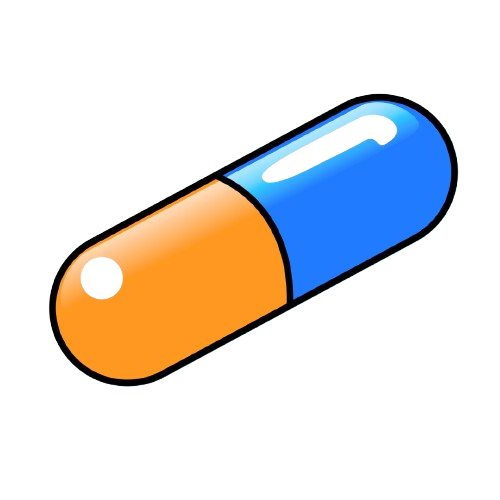
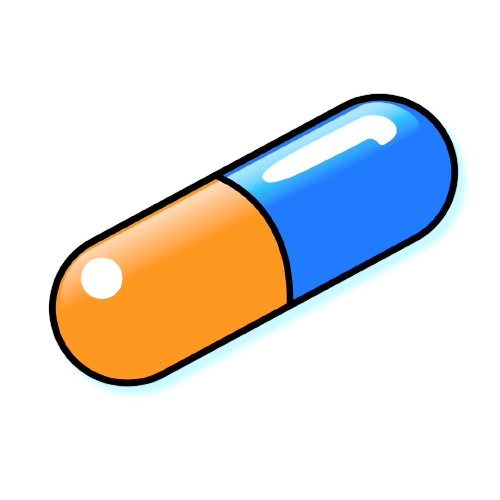
NEXUSnv.png pra uso no modo claro e NEXUSnv-branco.png pra uso no modo e

diff --git a/src/components/logo.tsx b/src/components/logo.tsx
@@ -5,12 +5,23 @@ import Image from 'next/image';
 export function Logo({ className }: { className?: string }) {
   return (
     <div className={cn("flex items-center justify-center", className)}>
+      {/* Light mode logo */}
       <Image
         src="/NEXUSnv.png"
         alt="NexusFarma Logo"
         width={140}
         height={40}
         priority
+        className="dark:hidden"
+      />
+      {/* Dark mode logo */}
+      <Image
+        src="/NEXUSnv-branco.png"
+        alt="NexusFarma Logo"
+        width={140}
+        height={40}
+        priority
+        className="hidden dark:block"
       />
     </div>
   );
